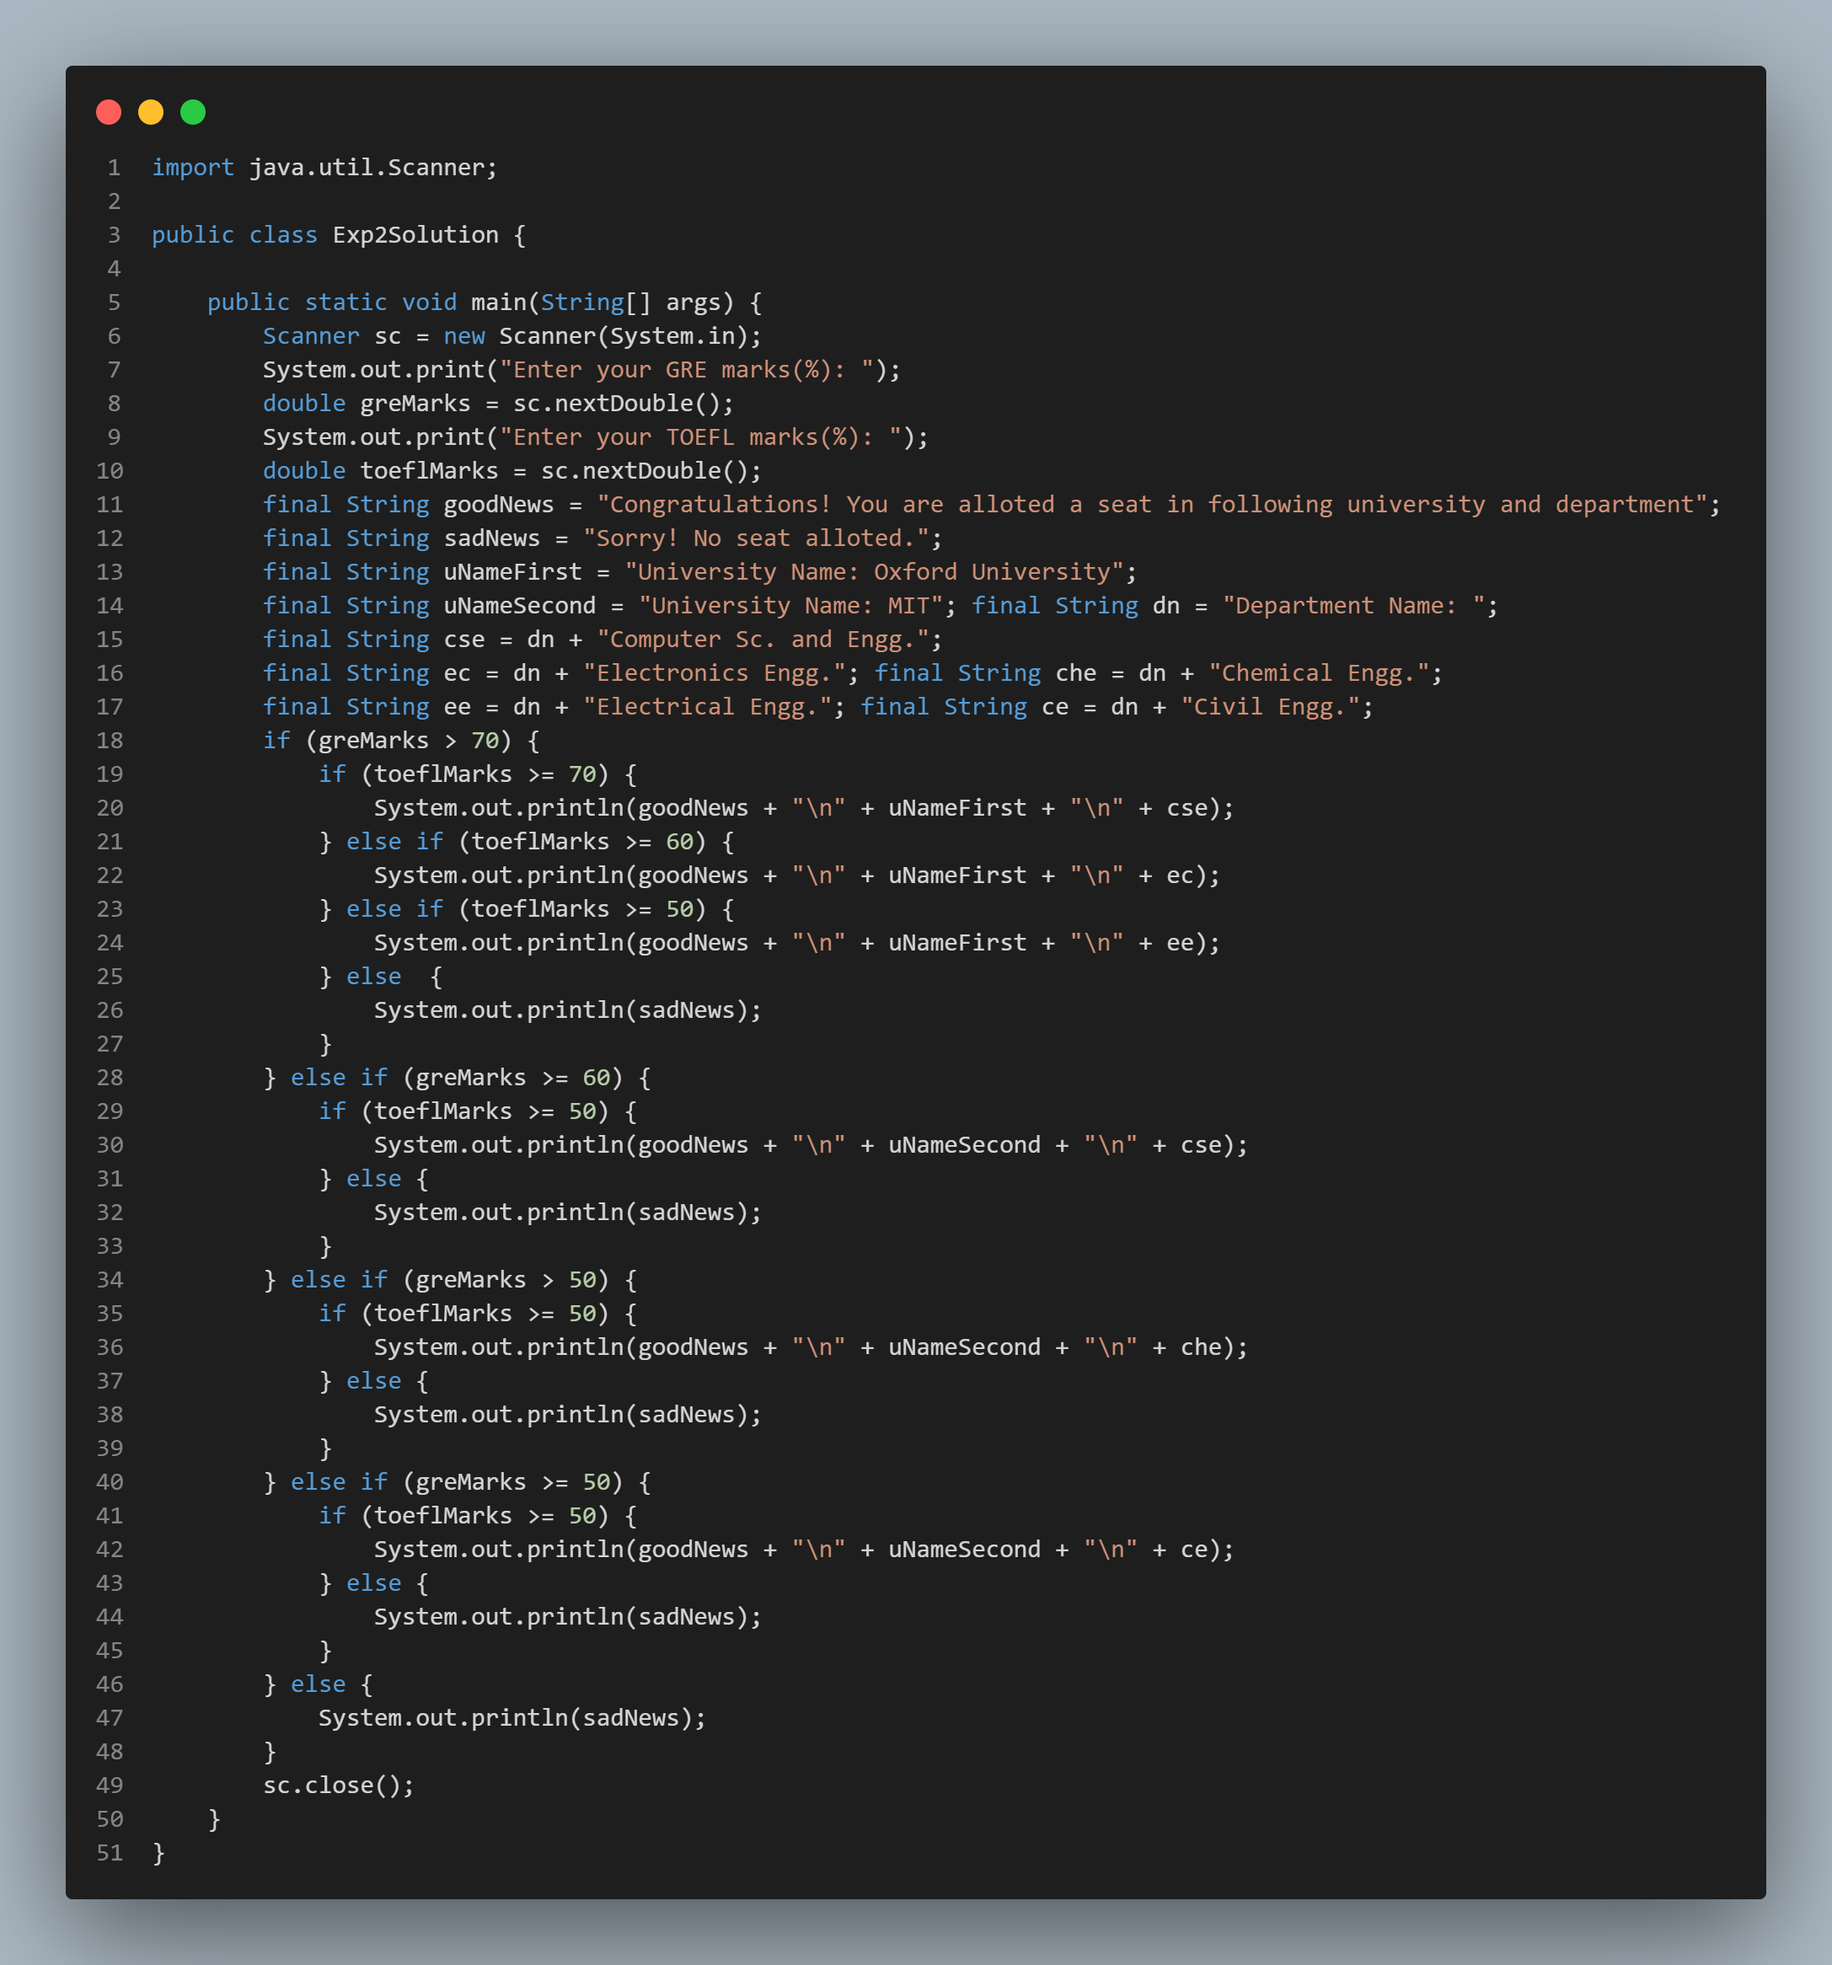
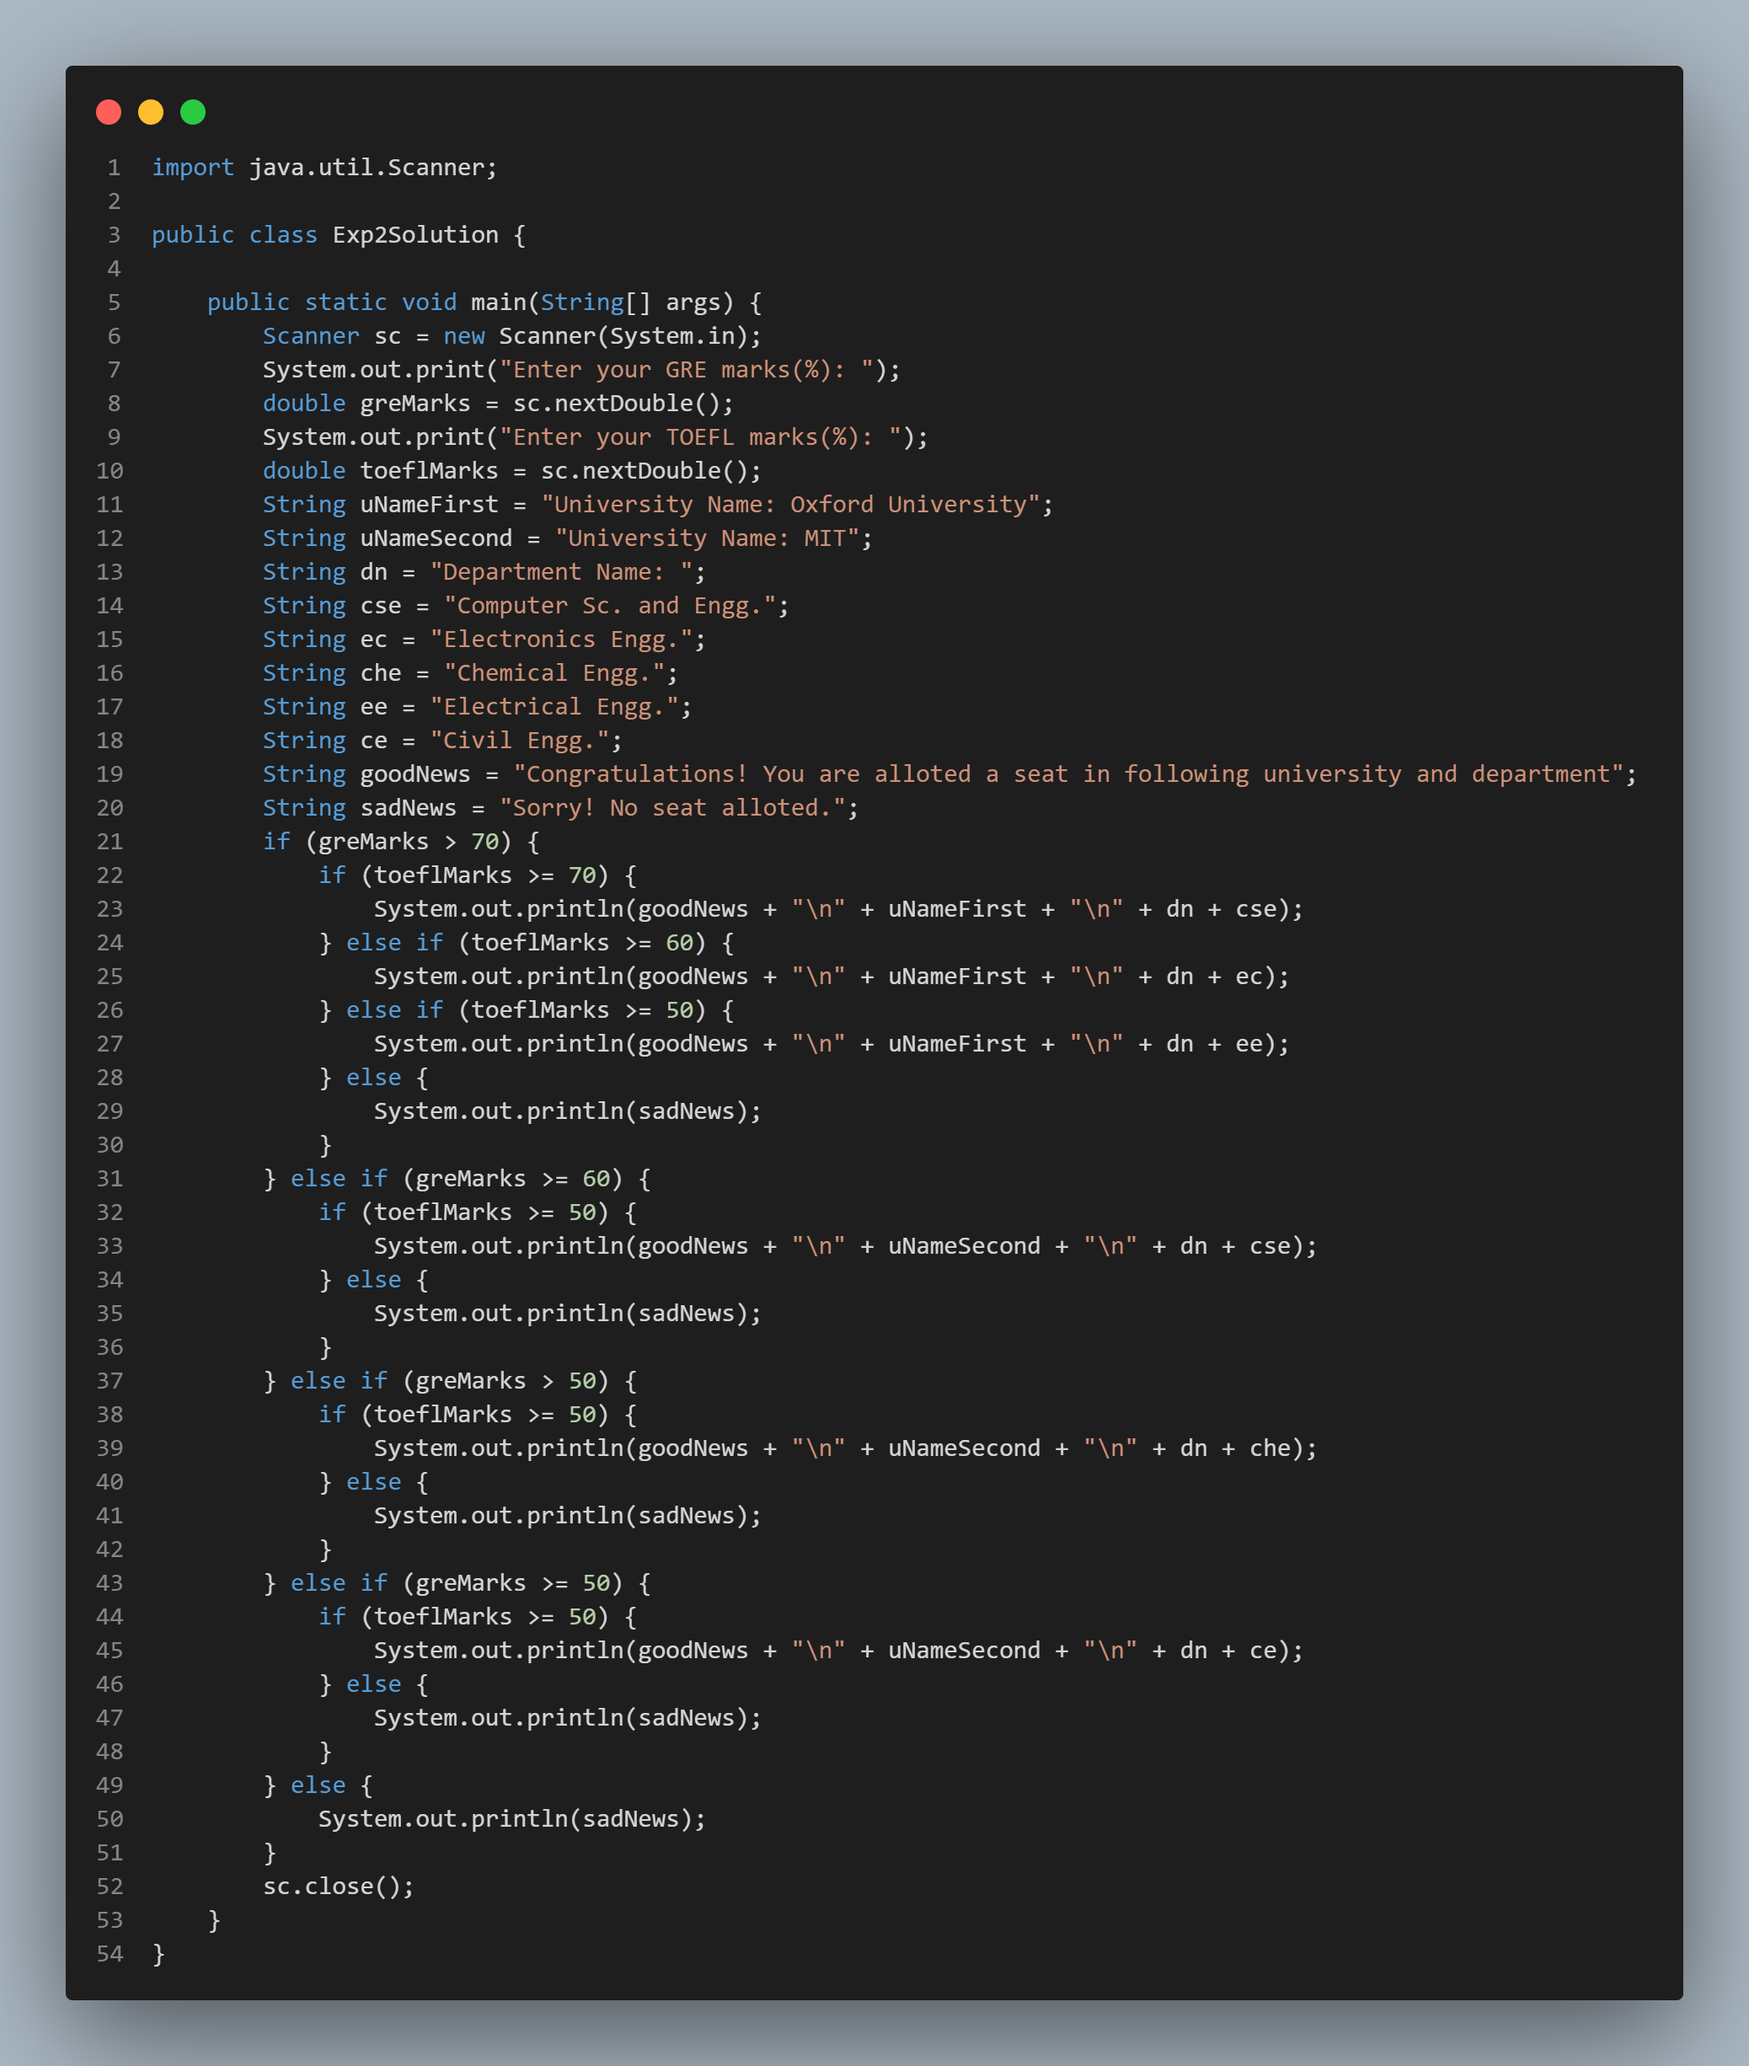
updated src

diff --git a/src/Exp2Solution.java b/src/Exp2Solution.java
@@ -8,38 +8,41 @@ public class Exp2Solution {
         double greMarks = sc.nextDouble();
         System.out.print("Enter your TOEFL marks(%): ");
         double toeflMarks = sc.nextDouble();
-        final String goodNews = "Congratulations! You are alloted a seat in following university and department";
-        final String sadNews = "Sorry! No seat alloted.";
-        final String uNameFirst = "University Name: Oxford University";
-        final String uNameSecond = "University Name: MIT"; final String dn = "Department Name: ";
-        final String cse = dn + "Computer Sc. and Engg.";
-        final String ec = dn + "Electronics Engg."; final String che = dn + "Chemical Engg.";
-        final String ee = dn + "Electrical Engg."; final String ce = dn + "Civil Engg.";
+        String uNameFirst = "University Name: Oxford University";
+        String uNameSecond = "University Name: MIT";
+        String dn = "Department Name: ";
+        String cse = "Computer Sc. and Engg.";
+        String ec = "Electronics Engg.";
+        String che = "Chemical Engg.";
+        String ee = "Electrical Engg.";
+        String ce = "Civil Engg.";
+        String goodNews = "Congratulations! You are alloted a seat in following university and department";
+        String sadNews = "Sorry! No seat alloted.";
         if (greMarks > 70) {
             if (toeflMarks >= 70) {
-                System.out.println(goodNews + "\n" + uNameFirst + "\n" + cse);
+                System.out.println(goodNews + "\n" + uNameFirst + "\n" + dn + cse);
             } else if (toeflMarks >= 60) {
-                System.out.println(goodNews + "\n" + uNameFirst + "\n" + ec);
+                System.out.println(goodNews + "\n" + uNameFirst + "\n" + dn + ec);
             } else if (toeflMarks >= 50) {
-                System.out.println(goodNews + "\n" + uNameFirst + "\n" + ee);
-            } else  {
+                System.out.println(goodNews + "\n" + uNameFirst + "\n" + dn + ee);
+            } else {
                 System.out.println(sadNews);
             }
         } else if (greMarks >= 60) {
             if (toeflMarks >= 50) {
-                System.out.println(goodNews + "\n" + uNameSecond + "\n" + cse);
+                System.out.println(goodNews + "\n" + uNameSecond + "\n" + dn + cse);
             } else {
                 System.out.println(sadNews);
             }
         } else if (greMarks > 50) {
             if (toeflMarks >= 50) {
-                System.out.println(goodNews + "\n" + uNameSecond + "\n" + che);
+                System.out.println(goodNews + "\n" + uNameSecond + "\n" + dn + che);
             } else {
                 System.out.println(sadNews);
             }
         } else if (greMarks >= 50) {
             if (toeflMarks >= 50) {
-                System.out.println(goodNews + "\n" + uNameSecond + "\n" + ce);
+                System.out.println(goodNews + "\n" + uNameSecond + "\n" + dn + ce);
             } else {
                 System.out.println(sadNews);
             }
